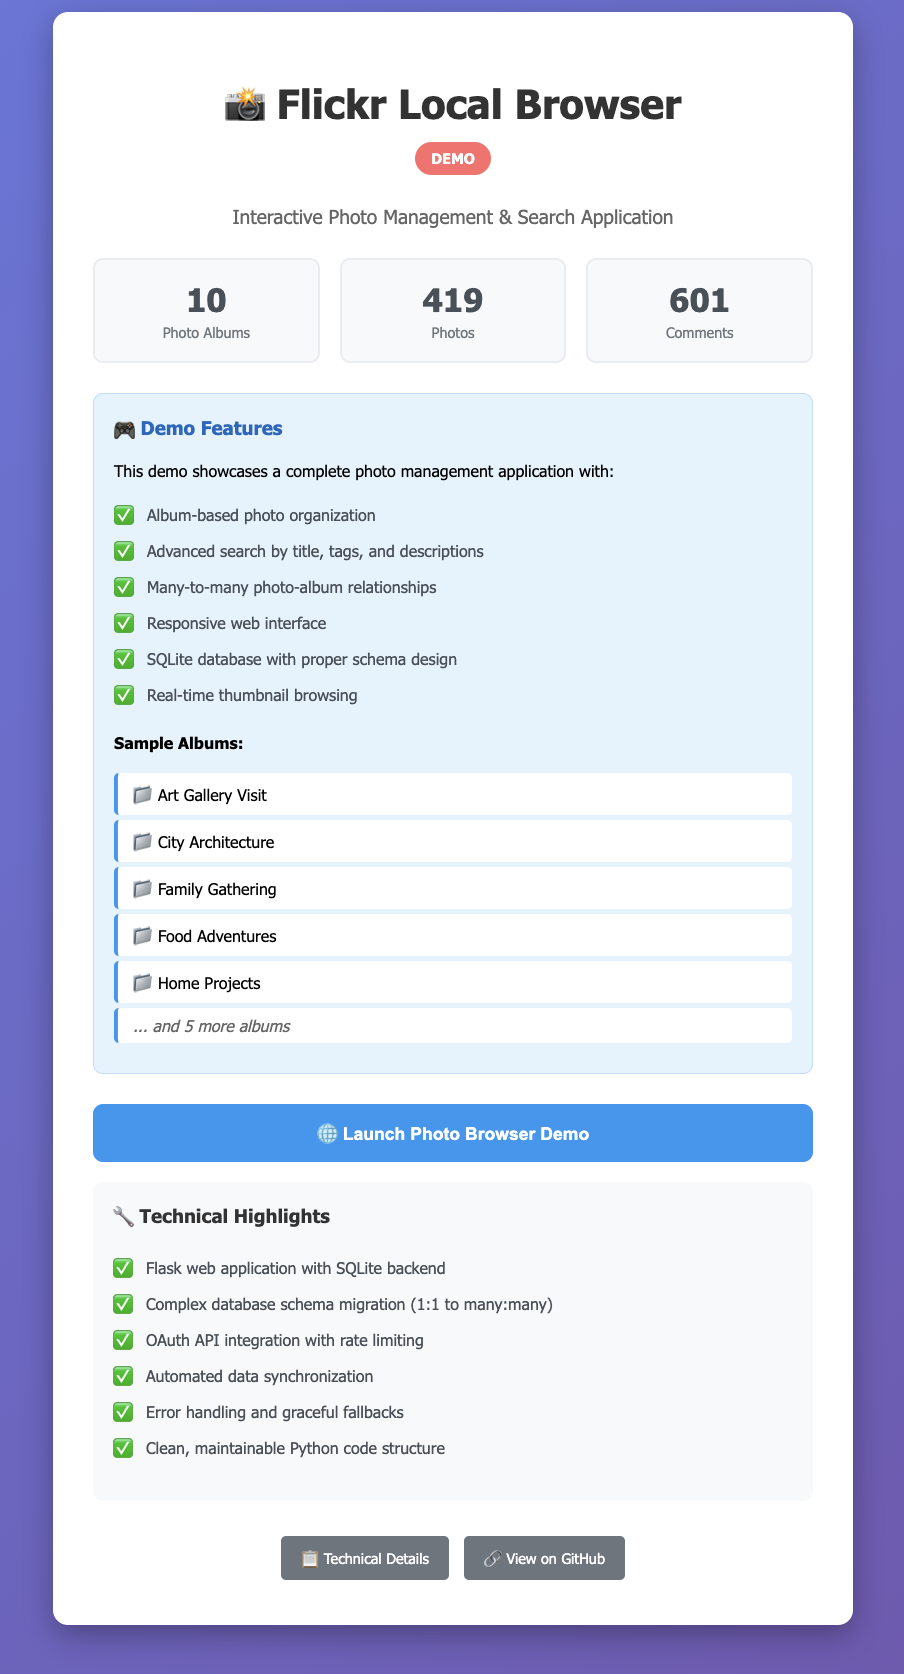
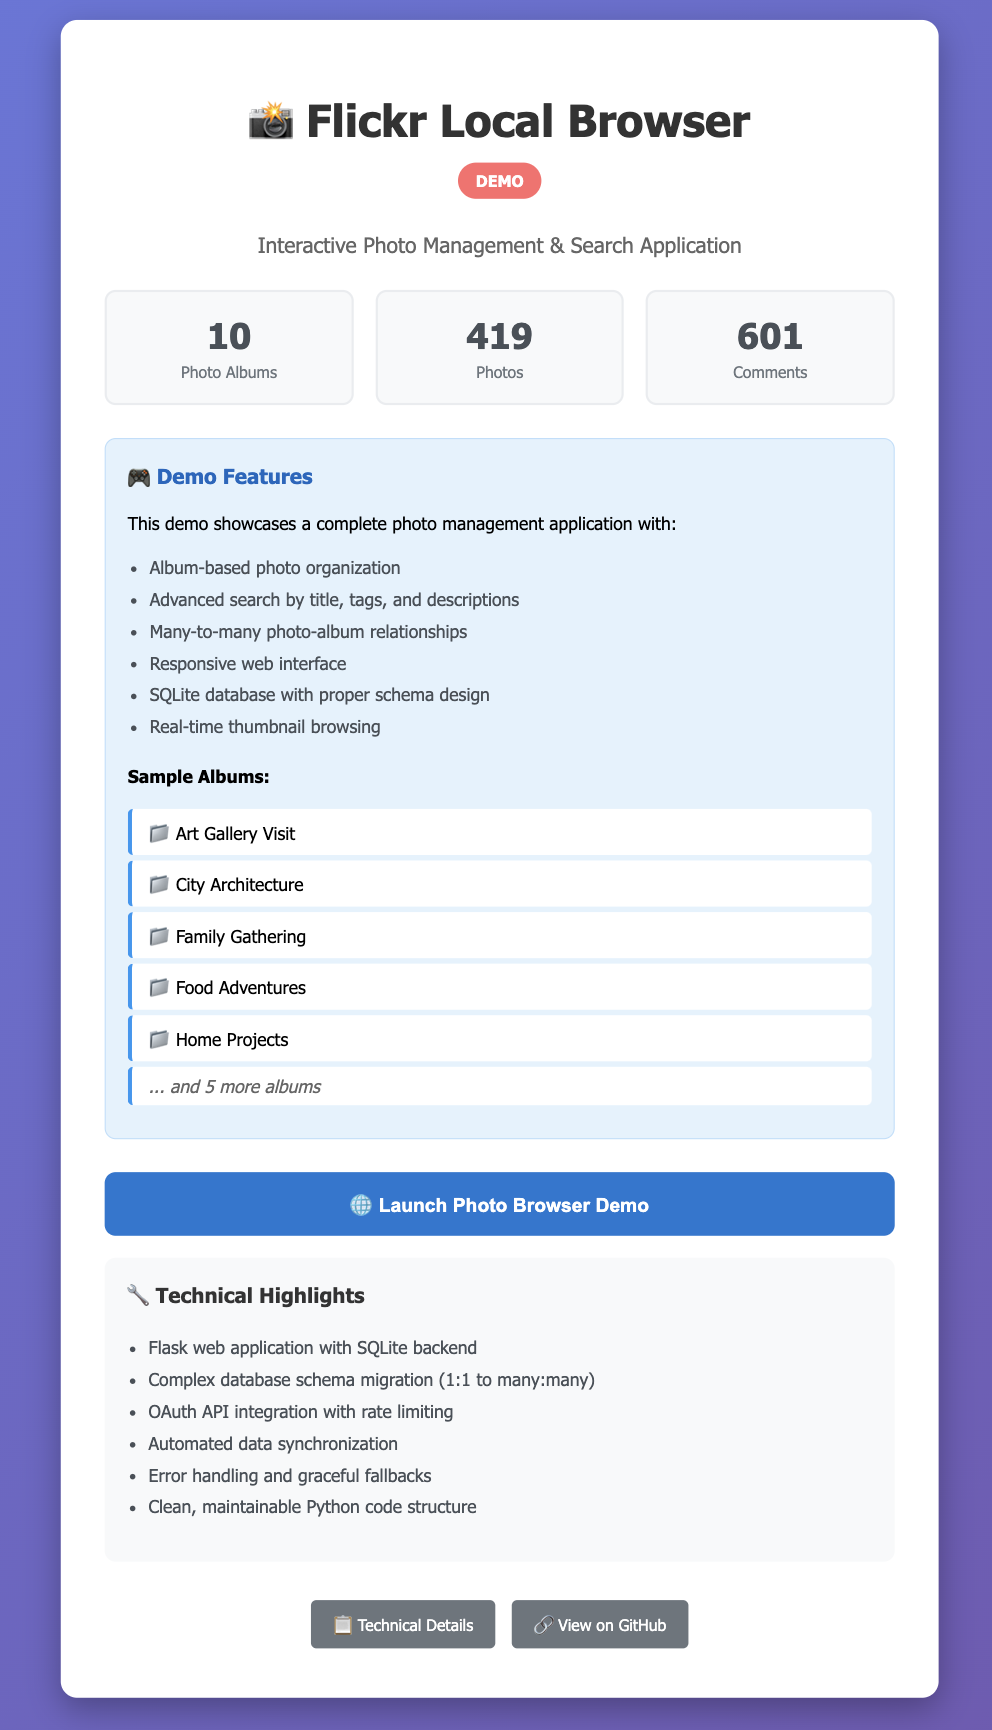
Updated ReadMe and Launcher

Changed region(s): [[0.0619, 0.0, 0.9602, 0.994], [0.031, 0.0311, 0.0619, 0.963]]

diff --git a/PORTFOLIO_LAUNCHER.py b/PORTFOLIO_LAUNCHER.py
@@ -215,16 +215,12 @@ DEMO_HTML = """
             color: #333;
         }
         .feature-list {
-            list-style: none;
-            padding: 0;
+            list-style: disc;
+            padding-left: 20px;
         }
         .feature-list li {
             padding: 5px 0;
             color: #495057;
-        }
-        .feature-list li::before {
-            content: "✅ ";
-            margin-right: 8px;
         }
         .status {
             padding: 15px;

diff --git a/README.md b/README.md
@@ -26,10 +26,10 @@ python run_tests.py
 
 **Key Testing Features:**
 
-- ✅ Database operations testing (many-to-many photo-album relationships)
-- ✅ REST API endpoint validation
-- ✅ Demo data generation quality assurance
-- ✅ GitHub Actions CI/CD pipeline
+- Database operations testing (many-to-many photo-album relationships)
+- REST API endpoint validation
+- Demo data generation quality assurance
+- GitHub Actions CI/CD pipeline
 
 [📖 View Testing Documentation →](tests/README.md)
 
@@ -46,10 +46,10 @@ python3 PORTFOLIO_LAUNCHER.py
 
 The demo will automatically:
 
-- ✅ Create 10 realistic photo albums
-- ✅ Generate 400+ demo photos with rich metadata
-- ✅ Set up a working photo browser interface
-- ✅ Launch directly in your browser
+- Create 10 realistic photo albums
+- Generate 400+ demo photos with rich metadata
+- Set up a working photo browser interface
+- Launch directly in your browser
 
 ## 🚀 Complete Setup Guide
 
